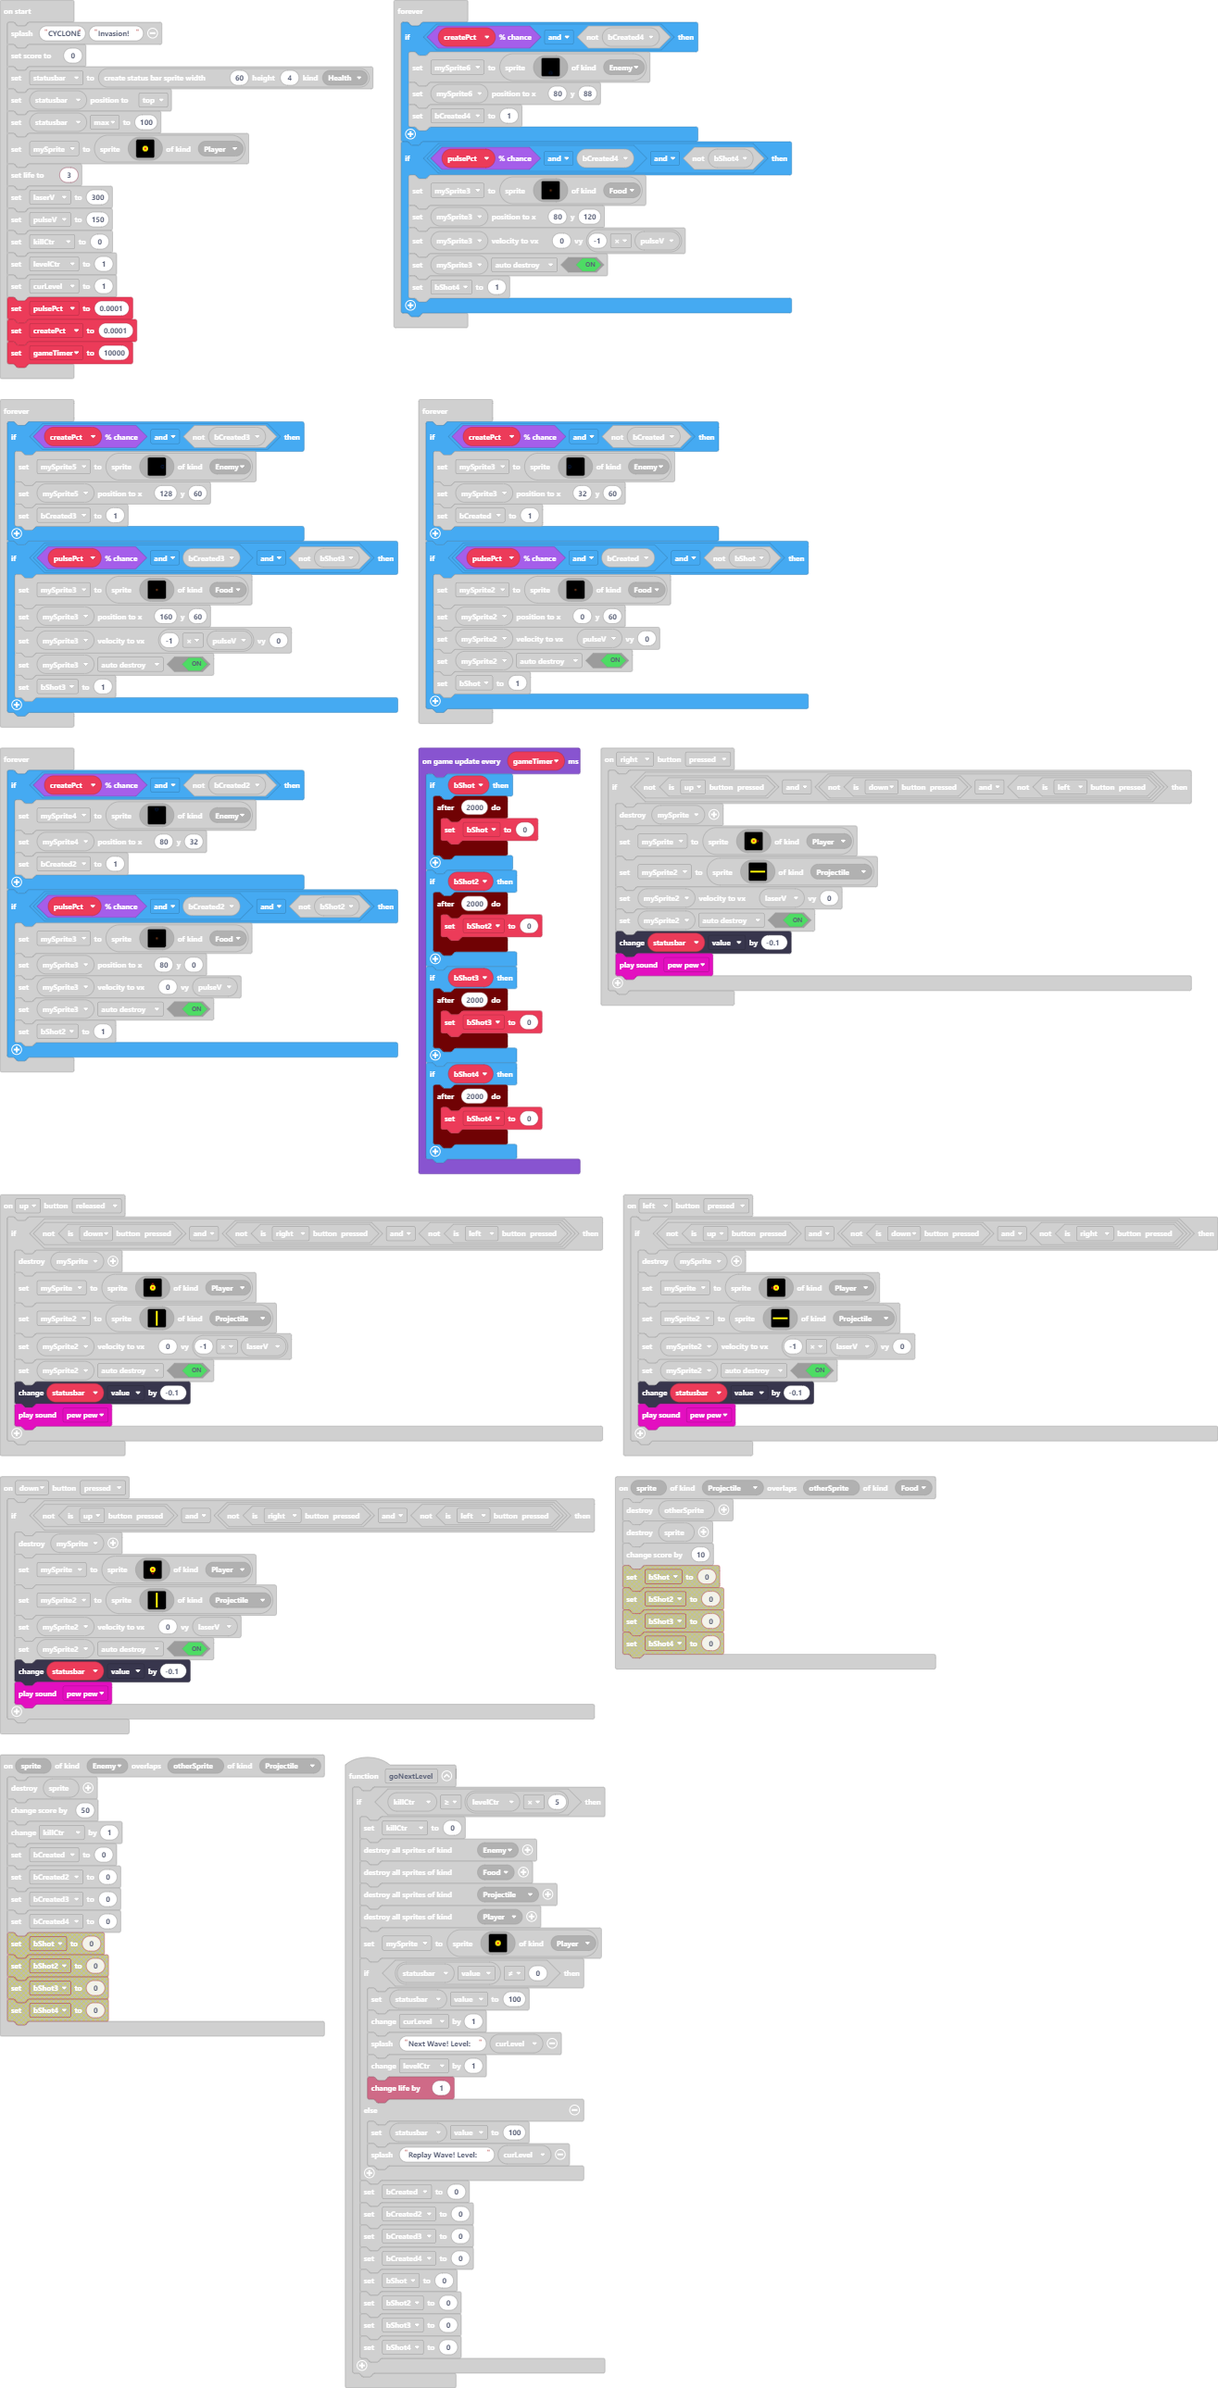
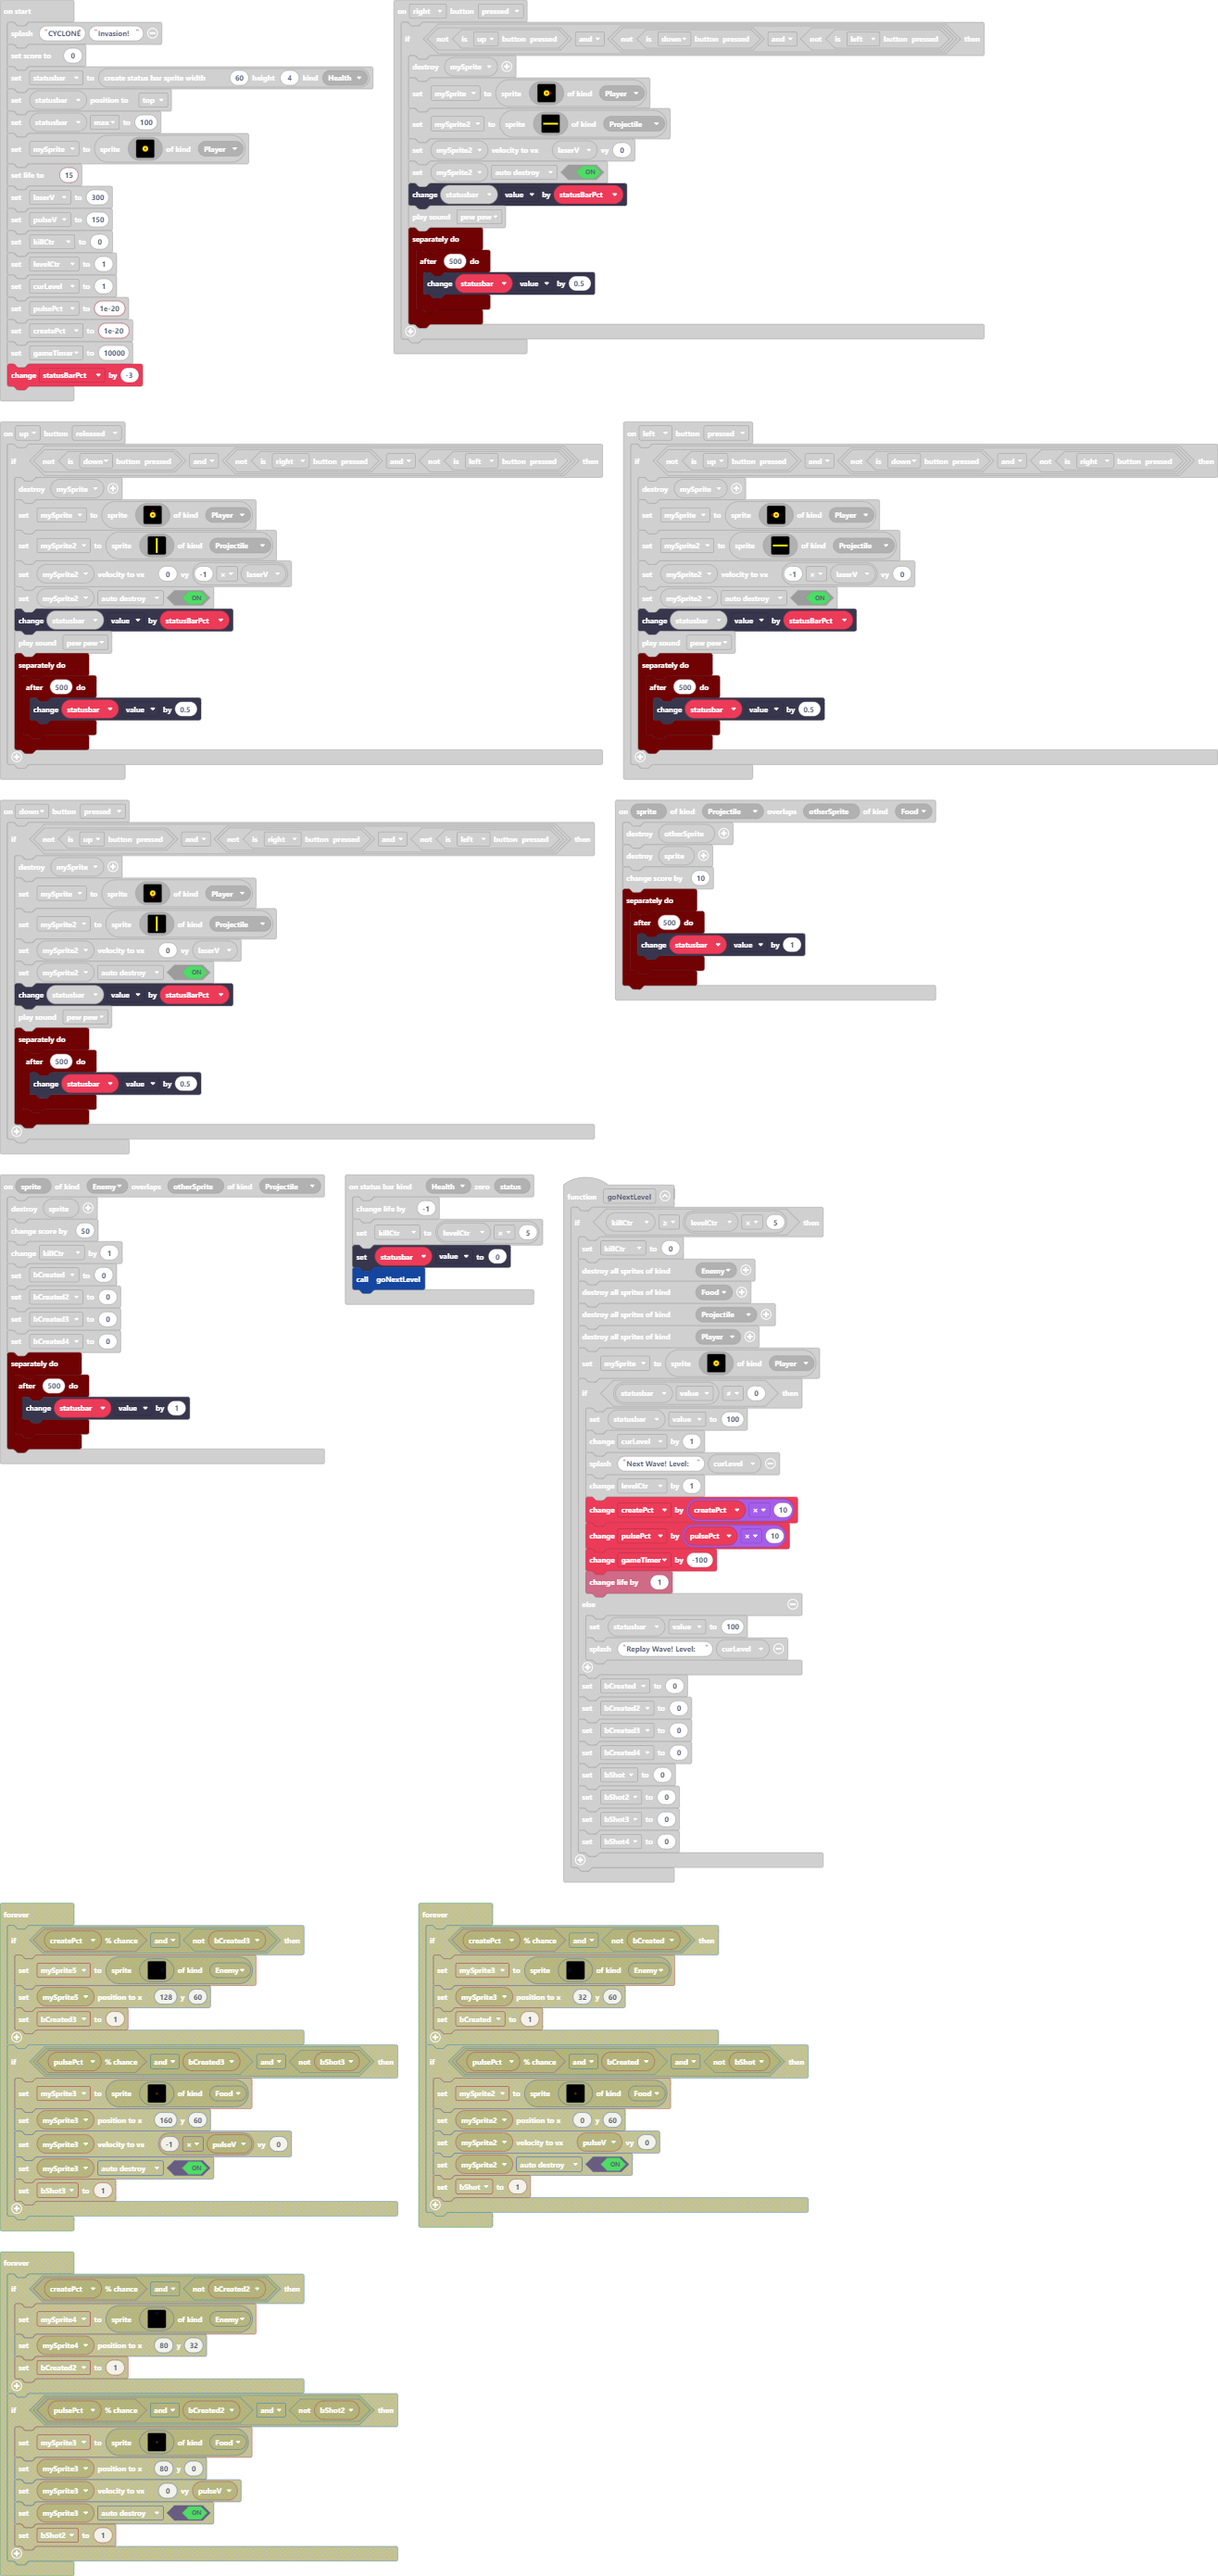
Update main.blocks, main.ts

diff --git a/main.ts b/main.ts
@@ -2,6 +2,11 @@ sprites.onOverlap(SpriteKind.Projectile, SpriteKind.Food, function (sprite, othe
     otherSprite.destroy()
     sprite.destroy()
     info.changeScoreBy(10)
+    timer.background(function () {
+        timer.after(500, function () {
+            statusbar.value += 1
+        })
+    })
 })
 controller.left.onEvent(ControllerButtonEvent.Pressed, function () {
     if (!(controller.up.isPressed()) && (!(controller.down.isPressed()) && !(controller.right.isPressed()))) {
@@ -10,8 +15,13 @@ controller.left.onEvent(ControllerButtonEvent.Pressed, function () {
         mySprite2 = sprites.create(assets.image`laser1`, SpriteKind.Projectile)
         mySprite2.setVelocity(-1 * laserV, 0)
         mySprite2.setFlag(SpriteFlag.AutoDestroy, true)
-        statusbar.value += -0.1
+        statusbar.value += statusBarPct
         music.pewPew.play()
+        timer.background(function () {
+            timer.after(500, function () {
+                statusbar.value += 0.5
+            })
+        })
     }
 })
 sprites.onOverlap(SpriteKind.Enemy, SpriteKind.Projectile, function (sprite, otherSprite) {
@@ -22,6 +32,11 @@ sprites.onOverlap(SpriteKind.Enemy, SpriteKind.Projectile, function (sprite, oth
     bCreated2 = 0
     bCreated3 = 0
     bCreated4 = 0
+    timer.background(function () {
+        timer.after(500, function () {
+            statusbar.value += 1
+        })
+    })
 })
 sprites.onOverlap(SpriteKind.Food, SpriteKind.Player, function (sprite, otherSprite) {
     sprite.destroy()
@@ -30,6 +45,7 @@ sprites.onOverlap(SpriteKind.Food, SpriteKind.Player, function (sprite, otherSpr
 statusbars.onZero(StatusBarKind.Health, function (status) {
     info.changeLifeBy(-1)
     killCtr = levelCtr * 5
+    statusbar.value = 0
     goNextLevel()
 })
 controller.right.onEvent(ControllerButtonEvent.Pressed, function () {
@@ -39,8 +55,13 @@ controller.right.onEvent(ControllerButtonEvent.Pressed, function () {
         mySprite2 = sprites.create(assets.image`laser1`, SpriteKind.Projectile)
         mySprite2.setVelocity(laserV, 0)
         mySprite2.setFlag(SpriteFlag.AutoDestroy, true)
-        statusbar.value += -0.1
+        statusbar.value += statusBarPct
         music.pewPew.play()
+        timer.background(function () {
+            timer.after(500, function () {
+                statusbar.value += 0.5
+            })
+        })
     }
 })
 controller.up.onEvent(ControllerButtonEvent.Released, function () {
@@ -50,8 +71,13 @@ controller.up.onEvent(ControllerButtonEvent.Released, function () {
         mySprite2 = sprites.create(assets.image`laser0`, SpriteKind.Projectile)
         mySprite2.setVelocity(0, -1 * laserV)
         mySprite2.setFlag(SpriteFlag.AutoDestroy, true)
-        statusbar.value += -0.1
+        statusbar.value += statusBarPct
         music.pewPew.play()
+        timer.background(function () {
+            timer.after(500, function () {
+                statusbar.value += 0.5
+            })
+        })
     }
 })
 controller.down.onEvent(ControllerButtonEvent.Pressed, function () {
@@ -61,8 +87,13 @@ controller.down.onEvent(ControllerButtonEvent.Pressed, function () {
         mySprite2 = sprites.create(assets.image`laser0`, SpriteKind.Projectile)
         mySprite2.setVelocity(0, laserV)
         mySprite2.setFlag(SpriteFlag.AutoDestroy, true)
-        statusbar.value += -0.1
+        statusbar.value += statusBarPct
         music.pewPew.play()
+        timer.background(function () {
+            timer.after(500, function () {
+                statusbar.value += 0.5
+            })
+        })
     }
 })
 controller.A.onEvent(ControllerButtonEvent.Repeated, function () {
@@ -81,6 +112,9 @@ function goNextLevel () {
             curLevel += 1
             game.splash("Next Wave! Level:", curLevel)
             levelCtr += 1
+            createPct += createPct * 10
+            pulsePct += pulsePct * 10
+            gameTimer += -100
             info.changeLifeBy(1)
         } else {
             statusbar.value = 100
@@ -109,6 +143,9 @@ let bCreated3 = 0
 let bCreated2 = 0
 let bCreated = 0
 let mySprite2: Sprite = null
+let statusBarPct = 0
+let createPct = 0
+let pulsePct = 0
 let curLevel = 0
 let levelCtr = 0
 let killCtr = 0
@@ -121,15 +158,16 @@ statusbar = statusbars.create(60, 4, StatusBarKind.Health)
 statusbar.positionDirection(CollisionDirection.Top)
 statusbar.max = 100
 mySprite = sprites.create(assets.image`Cyclone`, SpriteKind.Player)
-info.setLife(3)
+info.setLife(15)
 laserV = 300
 let pulseV = 150
 killCtr = 0
 levelCtr = 1
 curLevel = 1
-let pulsePct = 0.0001
-let createPct = 0.0001
+pulsePct = 1e-20
+createPct = 1e-20
 let gameTimer = 10000
+statusBarPct += -3
 game.onUpdateInterval(gameTimer, function () {
     if (bShot) {
         timer.after(2000, function () {
@@ -153,6 +191,11 @@ game.onUpdateInterval(gameTimer, function () {
     }
 })
 forever(function () {
+    if (levelCtr == curLevel) {
+        goNextLevel()
+    }
+})
+forever(function () {
     if (Math.percentChance(createPct) && !(bCreated4)) {
         mySprite6 = sprites.create(assets.image`Enemy2`, SpriteKind.Enemy)
         mySprite6.setPosition(80, 88)
@@ -165,8 +208,6 @@ forever(function () {
         mySprite3.setFlag(SpriteFlag.AutoDestroy, true)
         bShot4 = 1
     }
-})
-forever(function () {
     if (Math.percentChance(createPct) && !(bCreated3)) {
         mySprite5 = sprites.create(assets.image`Enemy1`, SpriteKind.Enemy)
         mySprite5.setPosition(128, 60)
@@ -179,8 +220,6 @@ forever(function () {
         mySprite3.setFlag(SpriteFlag.AutoDestroy, true)
         bShot3 = 1
     }
-})
-forever(function () {
     if (Math.percentChance(createPct) && !(bCreated)) {
         mySprite3 = sprites.create(assets.image`Enemy`, SpriteKind.Enemy)
         mySprite3.setPosition(32, 60)
@@ -193,8 +232,6 @@ forever(function () {
         mySprite2.setFlag(SpriteFlag.AutoDestroy, true)
         bShot = 1
     }
-})
-forever(function () {
     if (Math.percentChance(createPct) && !(bCreated2)) {
         mySprite4 = sprites.create(assets.image`Enemy0`, SpriteKind.Enemy)
         mySprite4.setPosition(80, 32)
@@ -206,10 +243,5 @@ forever(function () {
         mySprite3.setVelocity(0, pulseV)
         mySprite3.setFlag(SpriteFlag.AutoDestroy, true)
         bShot2 = 1
-    }
-})
-forever(function () {
-    if (levelCtr == curLevel) {
-        goNextLevel()
     }
 })
